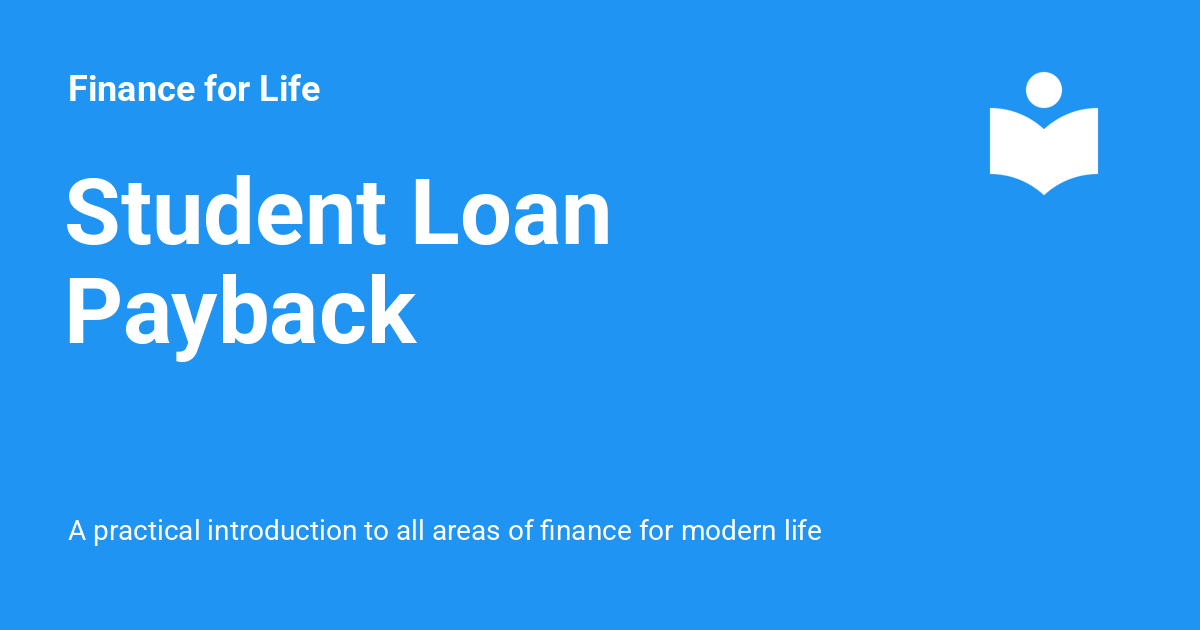
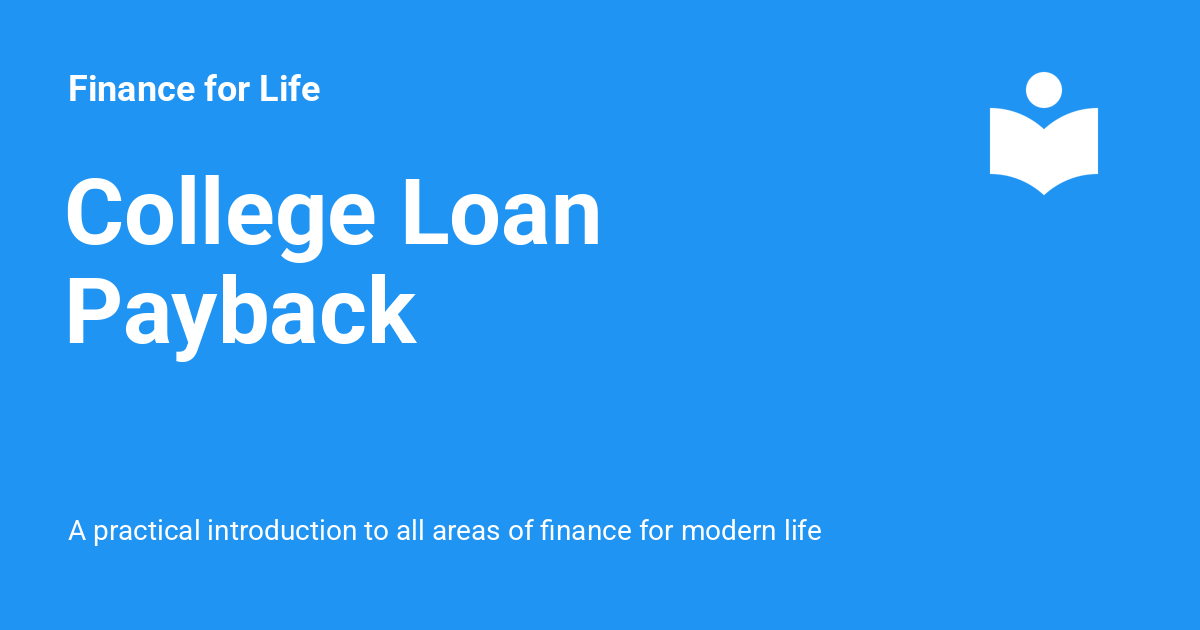
Deployed 9455d42 with MkDocs version: 1.6.1

Changed region(s): [[0.0308, 0.2714, 0.5242, 0.4222]]

diff --git a/sims/college-loan-payback/index.html b/sims/college-loan-payback/index.html
@@ -26,7 +26,7 @@
     
     
       
-        <title>Student Loan Payback - Finance for Life</title>
+        <title>College Loan Payback - Finance for Life</title>
       
     
     
@@ -63,7 +63,7 @@
       
         <meta  property="og:type"  content="website" >
       
-        <meta  property="og:title"  content="Student Loan Payback - Finance for Life" >
+        <meta  property="og:title"  content="College Loan Payback - Finance for Life" >
       
         <meta  property="og:description"  content="A practical introduction to all areas of finance for modern life" >
       
@@ -79,7 +79,7 @@
       
         <meta  name="twitter:card"  content="summary_large_image" >
       
-        <meta  name="twitter:title"  content="Student Loan Payback - Finance for Life" >
+        <meta  name="twitter:title"  content="College Loan Payback - Finance for Life" >
       
         <meta  name="twitter:description"  content="A practical introduction to all areas of finance for modern life" >
       
@@ -140,7 +140,7 @@
         <div class="md-header__topic" data-md-component="header-topic">
           <span class="md-ellipsis">
             
-              Student Loan Payback
+              College Loan Payback
             
           </span>
         </div>
@@ -453,7 +453,7 @@
           
   
   <span class="md-ellipsis">
-    Student Loan Payback
+    College Loan Payback
   </span>
   
 
@@ -464,7 +464,7 @@
         
   
   <span class="md-ellipsis">
-    Student Loan Payback
+    College Loan Payback
   </span>
   
 

diff --git a/glossary/index.html b/glossary/index.html
@@ -5408,7 +5408,7 @@
       <nav class="md-footer__inner md-grid" aria-label="Footer" >
         
           
-          <a href="../sims/college-loan-payback/" class="md-footer__link md-footer__link--prev" aria-label="Previous: Student Loan Payback">
+          <a href="../sims/college-loan-payback/" class="md-footer__link md-footer__link--prev" aria-label="Previous: College Loan Payback">
             <div class="md-footer__button md-icon">
               
               <svg xmlns="http://www.w3.org/2000/svg" viewBox="0 0 24 24"><path d="M20 11v2H8l5.5 5.5-1.42 1.42L4.16 12l7.92-7.92L13.5 5.5 8 11z"/></svg>
@@ -5418,7 +5418,7 @@
                 Previous
               </span>
               <div class="md-ellipsis">
-                Student Loan Payback
+                College Loan Payback
               </div>
             </div>
           </a>

diff --git a/sims/learning-graph/index.html b/sims/learning-graph/index.html
@@ -493,7 +493,7 @@
         
   
   <span class="md-ellipsis">
-    Student Loan Payback
+    College Loan Payback
   </span>
   
 
@@ -746,13 +746,13 @@
         
         
           
-          <a href="../college-loan-payback/" class="md-footer__link md-footer__link--next" aria-label="Next: Student Loan Payback">
+          <a href="../college-loan-payback/" class="md-footer__link md-footer__link--next" aria-label="Next: College Loan Payback">
             <div class="md-footer__title">
               <span class="md-footer__direction">
                 Next
               </span>
               <div class="md-ellipsis">
-                Student Loan Payback
+                College Loan Payback
               </div>
             </div>
             <div class="md-footer__button md-icon">

diff --git a/sims/college-loan-payback/college-loan-payback.js b/sims/college-loan-payback/college-loan-payback.js
@@ -43,11 +43,11 @@ function setup() {
   costSlider.position(sliderLeftMargin, drawHeight + 50);
   costSlider.size(containerWidth - sliderLeftMargin - margin);
   
-  interestSlider = createSlider(2, 12, 5.5, 0.1);
+  interestSlider = createSlider(2, 12, 6.5, 0.1);
   interestSlider.position(sliderLeftMargin, drawHeight + 80);
   interestSlider.size(containerWidth - sliderLeftMargin - margin);
   
-  paymentSlider = createSlider(100, 3000, 1000, 50);
+  paymentSlider = createSlider(100, 3000, 1100, 50);
   paymentSlider.position(sliderLeftMargin, drawHeight + 110);
   paymentSlider.size(containerWidth - sliderLeftMargin - margin);
   

diff --git a/sims/college-loan-payback/main.html b/sims/college-loan-payback/main.html
@@ -12,7 +12,7 @@
         }
     </style>
     <!-- Put your script file name here -->
-    <script src="sketch.js"></script>
+    <script src="college-loan-payback.js"></script>
 </head>
 <body>
     <!-- Put the following lines in your setup() function

diff --git a/sims/index.html b/sims/index.html
@@ -444,7 +444,7 @@
         
   
   <span class="md-ellipsis">
-    Student Loan Payback
+    College Loan Payback
   </span>
   
 
